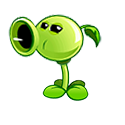
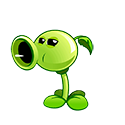
change cursor images

diff --git a/index.htm b/index.htm
@@ -102,7 +102,7 @@
             width: 200px;
             height: 185px;
             vertical-align: bottom;
-            cursor: url(./images/zvp_plants-r.gif) 50 50, auto;
+            cursor: url(./images/zvp_plants-r.png) 50 50, auto;
             transition: all 0.2s ease;
             overflow: hidden;
         } 
@@ -174,7 +174,7 @@
             animation-name: fade;
             animation-fill-mode: forwards;
             animation-duration: 1s;
-            cursor: url(./images/hit2.gif) 50 50, auto;
+            cursor: url(./images/hit.png) 50 50, auto;
         } 
         @keyframes fade {
             from{
